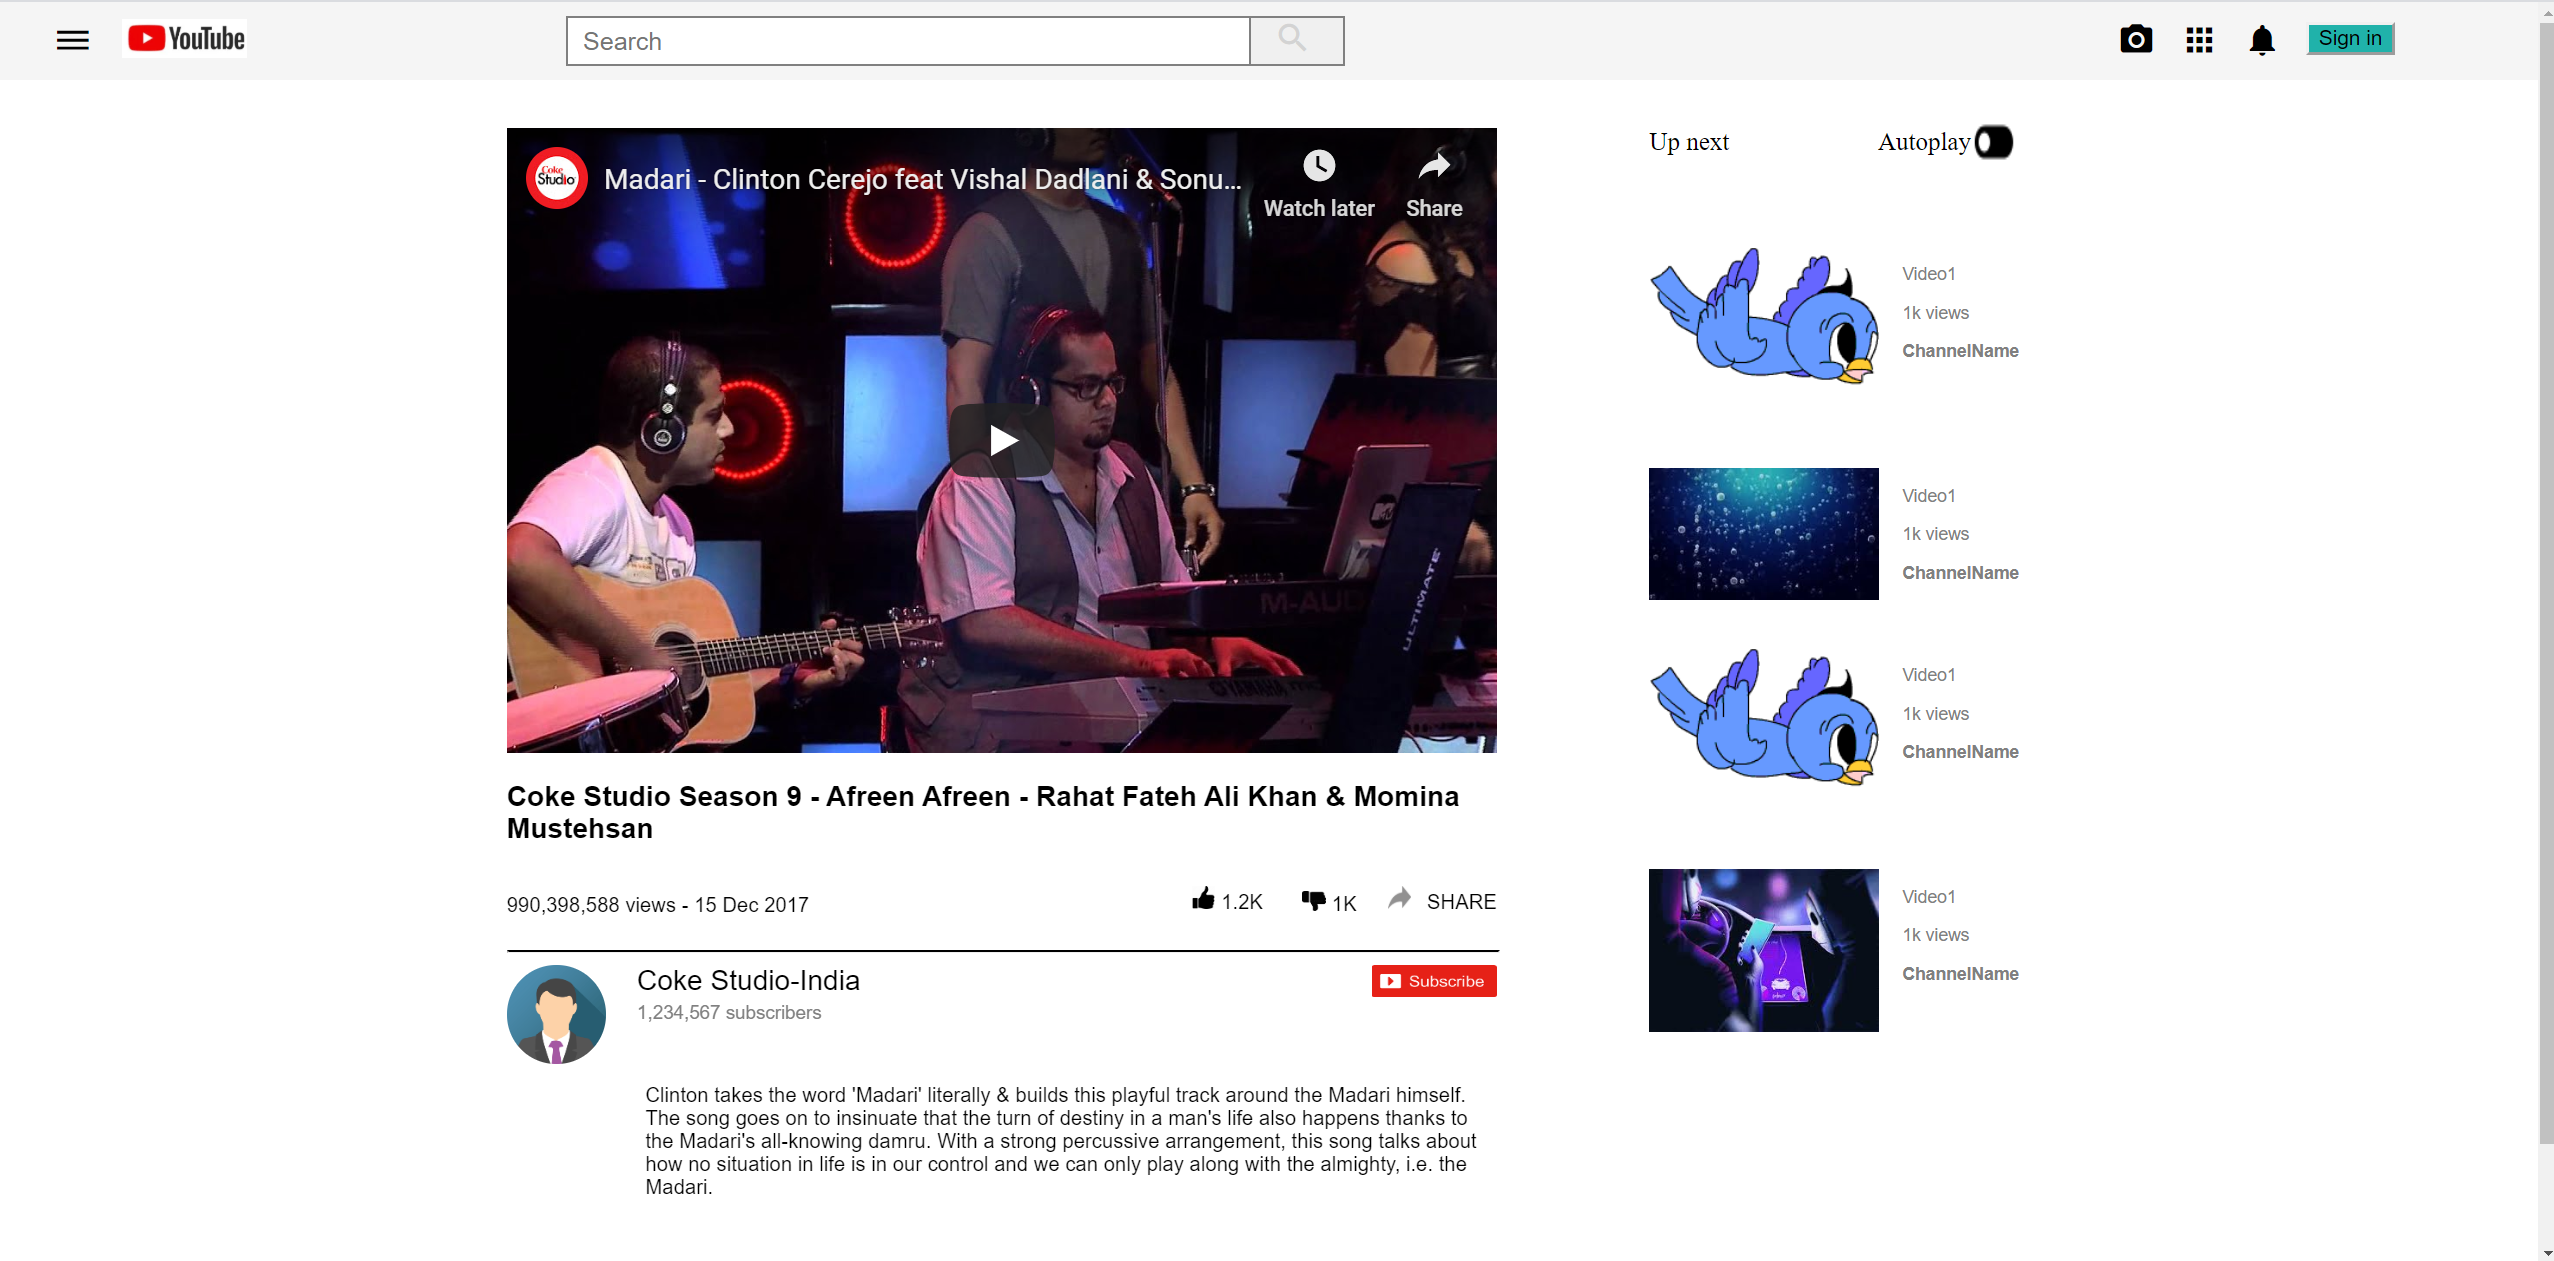
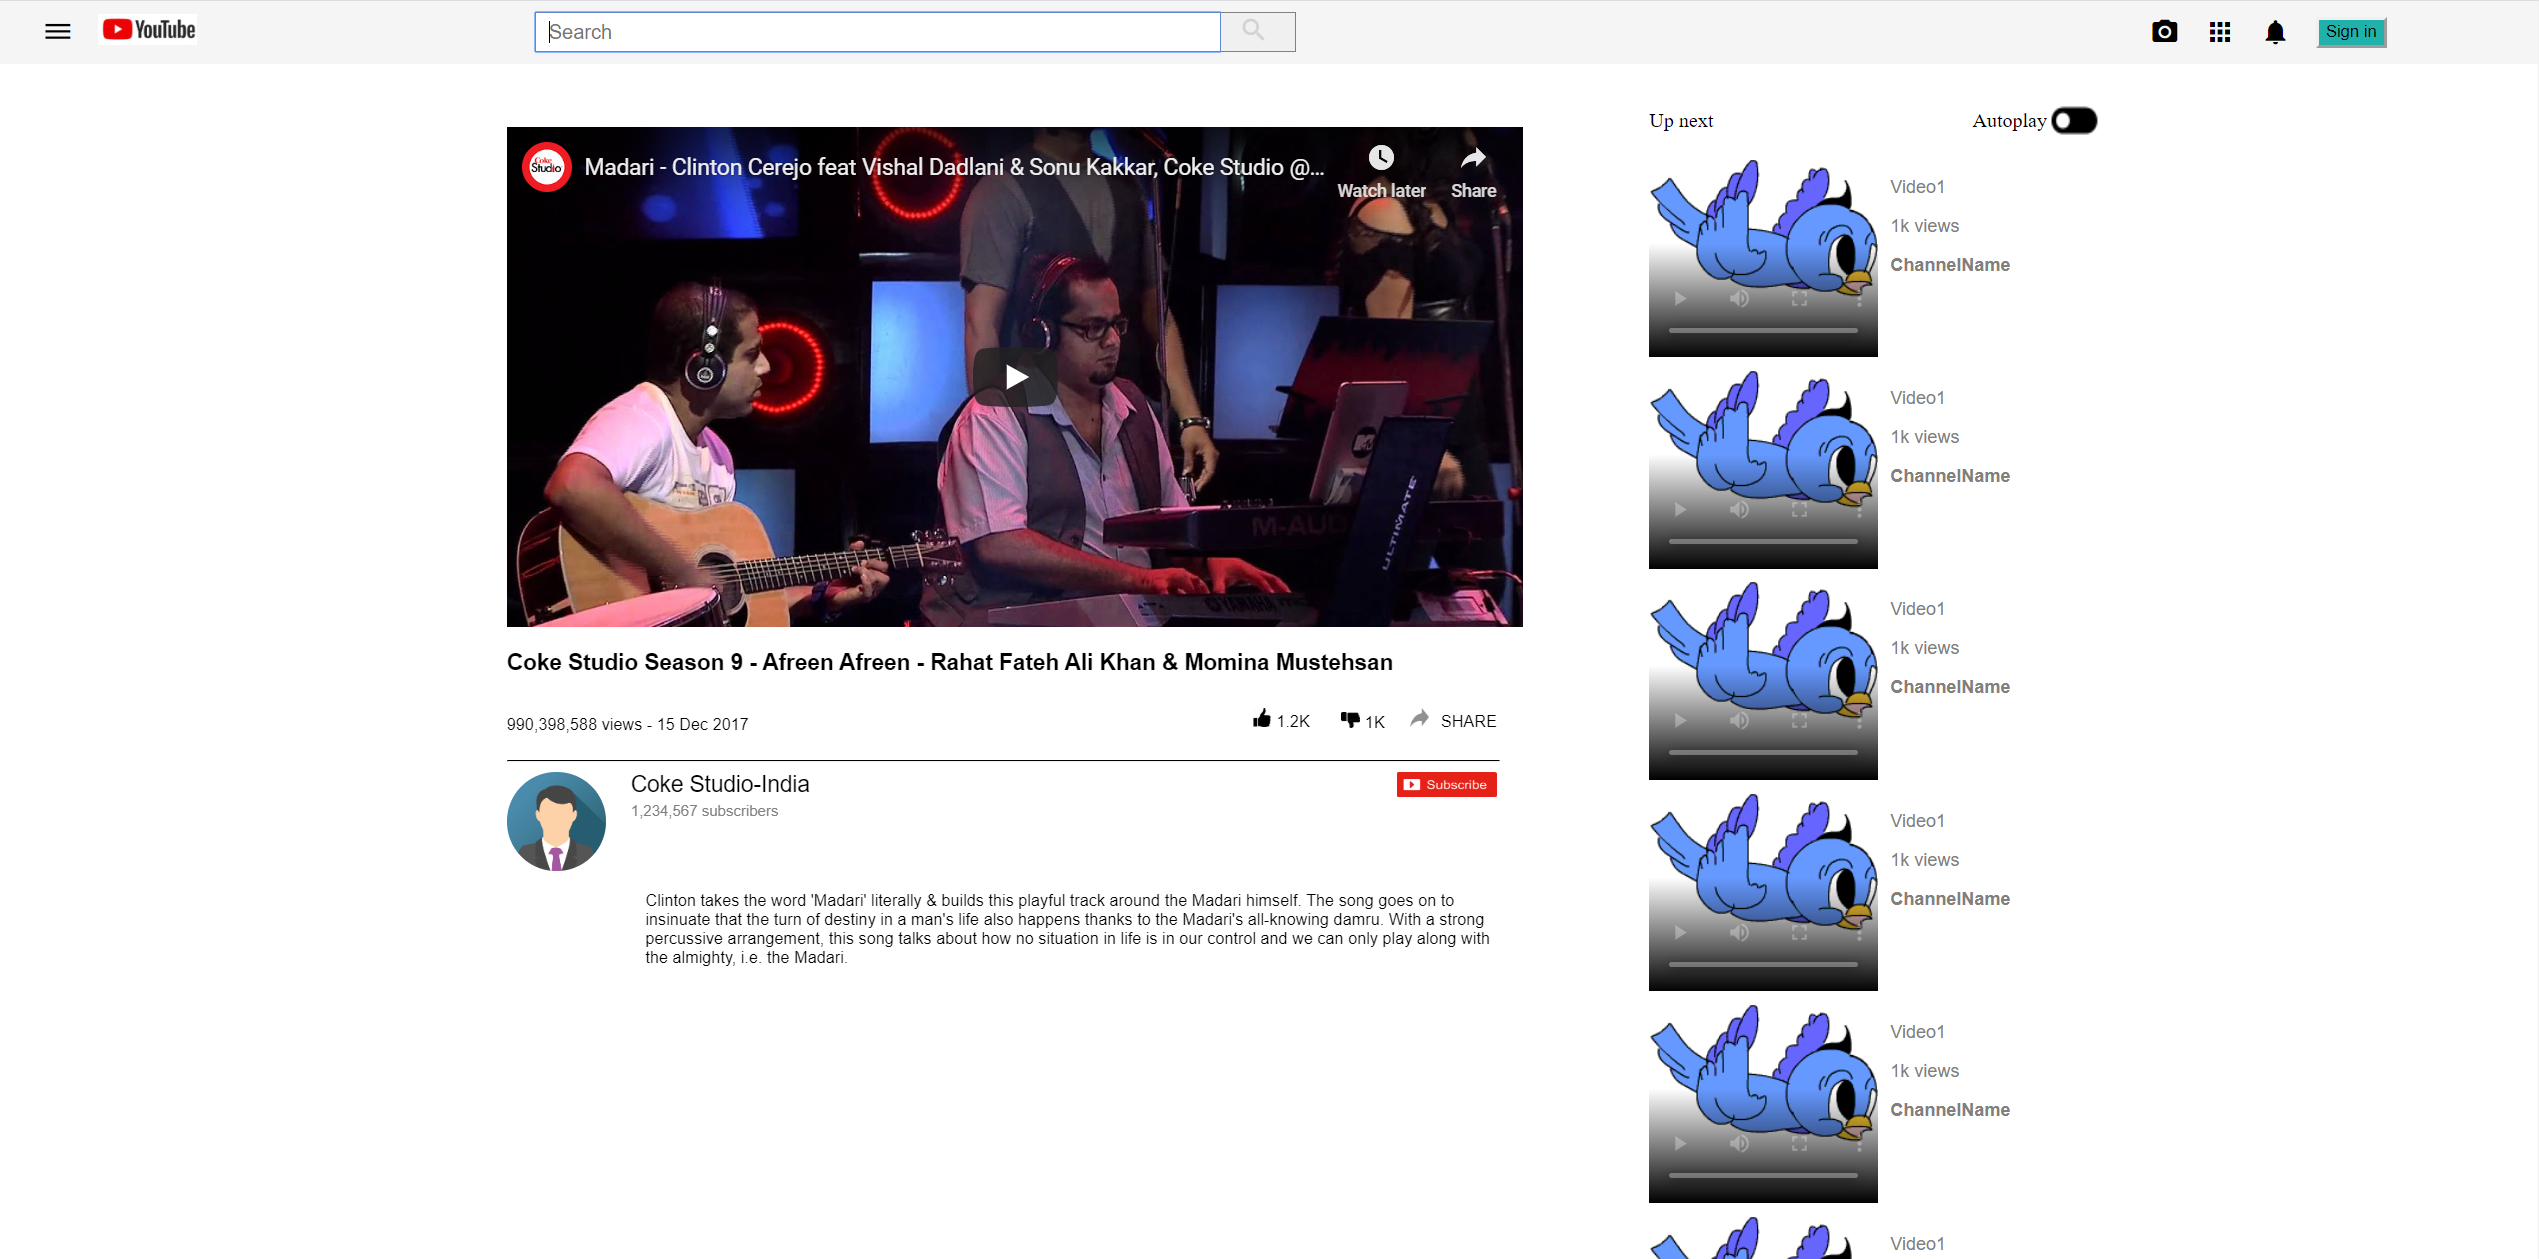
added video thumbnails and completed formatting of right pane

diff --git a/index.html b/index.html
@@ -12,7 +12,7 @@
 <body class="wrapper">
     <nav>
         <div class="navbar_left">
-            <img id="menu_icon"><i class="material-icons">dehaze</i>
+            <img id="menu_icon" alt=""><i class="material-icons">dehaze</i>
             <a href="http://www.youtube.com">
                 <img id="youtube_icon" src="img/youtube_logo.png" alt="youtube">
             </a>
@@ -26,23 +26,20 @@
                 <i class="material-icons">photo_camera</i>
             </a>
             <a class="hoverIcon">
-                <img id="icons"><i class="material-icons">apps</i></a>
+                <img id="icons" alt=""><i class="material-icons">apps</i>
             </a>
             <a class="hoverIcon">
                 <i class="material-icons">notifications</i>
             </a>
-            <a class="hoverIcon">
-                <button id="signinButton" type="button">Sign in</button>
-            </a>
+            <button class="hoverIcon" id="signinButton" type="button">Sign in</button>
         </div>
     </nav>
 
     <section id="centerPart">
-        <div class="mainVid">
-            <iframe width="100%" height="100%" src="https://www.youtube.com/embed/L-9s4nTLSdA" frameborder="0"
+        <div>
+            <iframe class="mainVid" src="https://www.youtube.com/embed/L-9s4nTLSdA"
                 allow="accelerometer; autoplay; encrypted-media; gyroscope; picture-in-picture"
                 allowfullscreen></iframe>
-
         </div>
         <div class="belowVid">
             <h3 style="font-family: 'Roboto', 'arial', sans-serif; font-size: 18px; font-style: normal;">Coke Studio
@@ -101,57 +98,86 @@
     </section>
     <aside id="rightPane">
         <div class="fl">
-            <p id="UpNext">Up next</p>
-            <div class="autoPlay">
 
+            <p id="UpNext">Up next</p>
+
+            <div class="autoPlay">
                 <p class="AP">Autoplay</p>
                 <img class="tog" src="img/toggle_off.png" alt="">
-
             </div>
         </div>
         <div class="videos">
-            <div class="vid1">
-                <img class="thumbnails" src="img/RP1.png" alt="vid1">
+            <div class="vidSection">
+                <video class="vid1" poster="img/RP1.png" controls>
+                    <source src="https://www.youtube.com/embed/L-9s4nTLSdA">
+                </video>
+                <div class="vidDesc">
+                    <p>Video1</p>
+                    <p>1k views</p>
+                    <p><strong>ChannelName</strong></p>
+                </div>
             </div>
-            <div class="vidDesc">
-                <p>Video1</p>
-                <p>1k views</p>
-                <p><strong>ChannelName</strong></p>
+
+            <div class="vidSection">
+                <video class="vid1" poster="img/RP1.png" controls>
+                    <source src="https://www.youtube.com/embed/L-9s4nTLSdA">
+                </video>
+                <div class="vidDesc">
+                    <p>Video1</p>
+                    <p>1k views</p>
+                    <p><strong>ChannelName</strong></p>
+                </div>
             </div>
-        </div>
 
 
-        <div class="videos">
-            <div class="vid1">
-                <img class="thumbnails" src='img/RP2.jpg' alt="vid2">
-            </div>
-            <div class="vidDesc">
-                <p>Video1</p>
-                <p>1k views</p>
-                <p><strong>ChannelName</strong></p>
-            </div>
-        </div>
+            <div class="vidSection">
 
-        <div class="videos">
-            <div class="vid1">
-                <img class="thumbnails" src="img/RP1.png" alt="vid3">
-            </div>
-            <div class="vidDesc">
-                <p>Video1</p>
-                <p>1k views</p>
-                <p><strong>ChannelName</strong></p>
-            </div>
-        </div>
+                <video class="vid1" poster="img/RP1.png" controls>
+                    <source src="https://www.youtube.com/embed/L-9s4nTLSdA">
+                </video>
 
-
-        <div class="videos">
-            <div class="vid1">
-                <img class="thumbnails" src="img/RP4.jpg" alt="vid4">
+                <div class="vidDesc">
+                    <p>Video1</p>
+                    <p>1k views</p>
+                    <p><strong>ChannelName</strong></p>
+                </div>
             </div>
-            <div class="vidDesc">
-                <p>Video1</p>
-                <p>1k views</p>
-                <p><strong>ChannelName</strong></p>
+
+            <div class="vidSection">
+
+                <video class="vid1" poster="img/RP1.png" controls>
+                    <source src="https://www.youtube.com/embed/L-9s4nTLSdA">
+                </video>
+
+                <div class="vidDesc">
+                    <p>Video1</p>
+                    <p>1k views</p>
+                    <p><strong>ChannelName</strong></p>
+                </div>
+            </div>
+            <div class="vidSection">
+
+                <video class="vid1" poster="img/RP1.png" controls>
+                    <source src="https://www.youtube.com/embed/L-9s4nTLSdA">
+                </video>
+
+                <div class="vidDesc">
+                    <p>Video1</p>
+                    <p>1k views</p>
+                    <p><strong>ChannelName</strong></p>
+                </div>
+            </div>
+            <div class="vidSection">
+
+                <video class="vid1" poster="img/RP1.png" controls>
+                    <source src="https://www.youtube.com/embed/L-9s4nTLSdA">
+                </video>
+
+                <div class="vidDesc">
+                    <p>Video1</p>
+                    <p>1k views</p>
+                    <p><strong>ChannelName</strong></p>
+                </div>
             </div>
         </div>
     </aside>

diff --git a/style.css b/style.css
@@ -95,7 +95,7 @@ nav {
 }
 
 #centerPart {
-	display: flex;
+  display: flex;
   align-items: flex-start;
   flex-direction: column;
   position: absolute;
@@ -107,11 +107,12 @@ nav {
 }
 
 .mainVid {
-  position: relative;
+  position: absolute;
   left: 0;
   top: 0;
-  width: 78%;
-  height: 400px;
+	width: 80%;
+	height: 50%;
+	border: 0;
 }
 
 .belowVid {
@@ -220,63 +221,72 @@ hr.line {
 
 #rightPane {
   position: absolute;
-  right: 15%;
-  width: 20%;
-  top: 8%;
-}
-
-.thumbnails {
-  max-width: 100%;
-  max-height: 100%;
+  right: 17%;
+  width: 18%;
+	top: 7%;
+	display: flex;
+	flex-direction: column;
 }
 
 .fl {
-  display: flex;
-  width: 100%;
+	display: flex;
+	flex-direction: row;
+	width: 100%;
 }
 
 #UpNext {
   align-items: flex-start;
-  width: 50%;
-  height: 50px;
+  width: 60%;
+	height: auto;
+	top: 0;
 }
 
 .videos {
-  display: flex;
+  display: block;
   border: gray;
-  margin: 10px 0;
-  width: 100%;
+	width: 100%;
+	height: 50%;
+	align-items: flex-start;
+	flex-direction: column;
+}
+
+.vidSection {
+	display: flex;
+	flex-direction: row;
 }
 
 .vid1 {
-  align-self: flex-start;
-  justify-content: flex-start;
-  width: 90%;
-  height: 70%;
+  width: 50%;
+	height: 50%;
+	padding: 5px 5px 5px 0;
 }
 
 .vidDesc {
   font-family: 'Roboto', 'arial', sans-serif;
-  font-size: 70%;
+  font-size: 90%;
   color: gray;
-  padding-left: 15px;
-  width: 100%;
-  height: 100%;
-  margin-bottom: 20px;
+	padding: 5px 0 5px 5px;
+  width: 50%;
+  height: auto;
 }
 
 .autoPlay {
   display: flex;
-  width: 50%;
-  justify-content: flex-start;
-  margin-right: 10%;
-}
-
-.tog {
-  width: 20%;
-  height: 50px;
+	width: 50%;
+	align-items: flex-start;
+	justify-content: flex-start;
+	flex-direction: row;
 }
 
 .AP {
-  justify-content: center;
+	position: absolute;
+	right: 13%;
+	width: auto;
+}
+
+.tog {
+	position: absolute;
+	right: 1%;
+	width: 12%;
+  height: 50px;
 }
